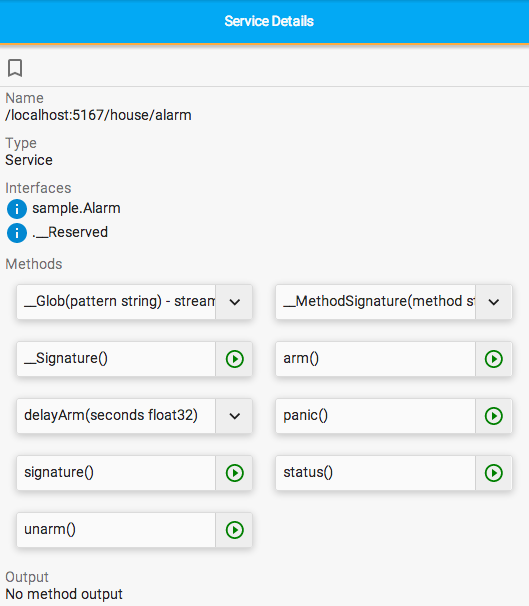
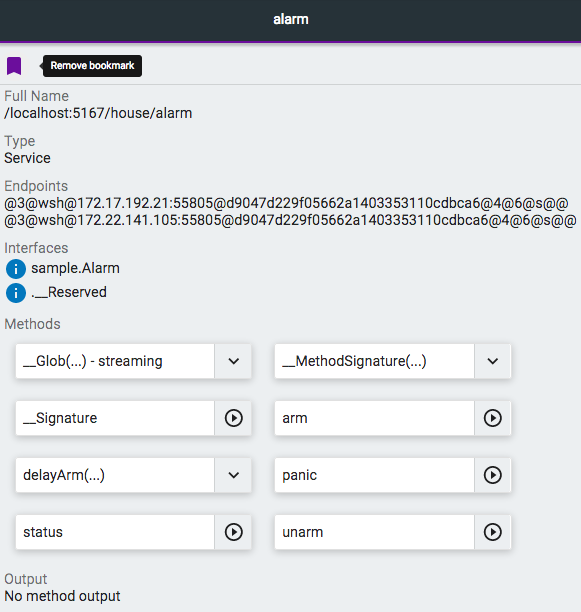
Updated help pages and screenshots.

diff --git a/src/components/help/content/methods.md b/src/components/help/content/methods.md
@@ -14,7 +14,8 @@ The right pane displays that the type is "Intermediary Name".
 It also shows the item's full name from the root of this namespace.
 
 Above the name, you can click on the bookmark icon to set a bookmark
-for this item (kitchen).
+for this item (kitchen), or can click to set this item to be
+the new root for browsing.
 
 Services
 --------
@@ -24,17 +25,26 @@ Here is the right pane for the alarm service:
 
 ![Details for the Alarm service](helpimg/alarm.png)
 
-As before, you can set a bookmark, and can see the full name and the type.
-In addition, you can see what interfaces are supported by this service.
+As before, you can set a bookmark. But in the figure above,
+the alarm service already has already been bookmarked
+(the bookmark icon is solid purple).
+Click it again to remove the bookmark.
 
-Most importantly the methods for the service are displayed.
+Below the full name and the type, you can see what Vanadium
+endpoints point to this service,
+and what interfaces are supported by this service.
+
+Most importantly, the methods for the service are displayed.
+Hover over a method name to see more information about the method.
+If a method takes arguments, then the name of the method
+is followed by "(...)".
 
 Invoking Methods on Services
 ----------------------------
 
 We can invoke methods on services to examine or change their state.
-For example, if you want to run the "status()" method, click on the button
-for the method (the green circle with a right arrow).
+For example, if you want to run the "status" method, click on the button
+for the method (the circle containing a right arrow).
 The method output (at the bottom) will say:
 
 ![Output from the status service](helpimg/output1.png)
@@ -46,24 +56,32 @@ that the alarm is armed:
 
 ![Output after arming alarm](helpimg/output2.png)
 
-Some method calls take arguments. For example, the "delayArm(seconds float32)"
-method takes a floating point number specifying the number of seconds
+Invoking Methods with Arguments
+-------------------------------
+
+Some method calls take arguments. For example, "delayArm(...)".
+Clicking on the action button (down arrow) for this method
+allows you to see more information about the arguments.
+
+![delayArm arguments](helpimg/delayarm.png)
+
+The delayArm method takes a floating point number specifying the number of seconds
 to delay before arming the alarm.
 
-To specify the values of any arguments, click on the button (down arrow)
-for the method, fill in values for the arguments, then click the RUN button.
+In this case, Viz is recommends a value of 1 (the item beginning with a star).
+You can click the action button (circle containing a right arrow)
+for this recommendation to run it.
+
+Alternatively, you can specify a different value by typing it into the line
+that contains "seconds (float32)", which is the type of the argument.
+Then click the RUN button to execute the method.
 
 The SAVE (star) button can be used to save a set of arguments for the function.
 In addition, sets of arguments you have used to invoke the method will be
-suggested in the future.
+recommended in the future.
 
-[TODO(wm): add images of this after it is reworked
- see  https://github.com/veyron/release-issues/issues/768]
-
-[TODO(wm): mention tooltips on methods]
-
-Mount Tables
-------------
+Mount Tables as Services
+------------------------
 
 A mount table is also a service. The methods for a mount table allow you
 to call methods on a mount table (e.g., to insert and delete items).

diff --git a/src/components/help/content/main.md b/src/components/help/content/main.md
@@ -2,20 +2,19 @@ Introduction
 ------------
 
 The Viz Vanadium Viewer is a tool to browse and interact with Vanadium services.
-See the Vanadium documentation for more information.
+See the [Vanadium documentation](http://staging.v.io) for more information.
 
 Mount Tables
 ------------
 
 One special kind of Vanadium service is a *mount table*, which contains
 distributed pointers to other services (including other mount tables).
-
 Each item in a mount table can be one of three things:
 * a distributed pointer to another mount table
 * a distributed pointer to a Vanadium service (other than a mount table)
 * a folder (intermediary name)
 
-Folders are used to group items together, like in a file system
+<br />Folders are used to group items together, like in a file system
 on a computer.
 The name used to identify a folder is called an "intermediary name" (like
 a directory name). Folders in a mount table can only contain other items
@@ -36,6 +35,10 @@ Names in Vanadium are a sequence of simple names separated by slashes (/)
 (see https://v.io/docs/core-concepts/naming.html for more information).
 
 Names in Vanadium can either be *rooted* or *relative*.
+
+Rooted Names
+------------
+
 A rooted name begins with a slash (/), while a relative name does not.
 The name following the initial slash of a rooted name is the *root*.
 A root can be specified three ways:

diff --git a/src/components/help/content/details.md b/src/components/help/content/details.md
@@ -21,7 +21,7 @@ Additional modes are planned for the future.
 
 In Browse mode, the header also shows the current Vanadium name being used
 as the root of the namespace.
-This can be a mount table, or an intermediary name in a mount table.
+This can be a mount table or an intermediary name in a mount table.
 You can type a Vanadium name into this field, or you can select a name
 using the Bookmarks or Recommendations tools. If this field is empty,
 it defaults to the Home mount table for the current environment.
@@ -57,4 +57,9 @@ you can set a bookmark on it by clicking the bookmark icon in the right pane.
 Recommendations uses machine intelligence to suggest interesting items.
 
 Lastly, you can use glob syntax to search for items.
-[TODO(wm): need details and examples]
+For example, you are in a namespace that represents a house.
+Under the house namespace are a number of rooms
+(bedroom, kitchen, living room, etc.) and under each room are things like
+lights, smoke detectors, thermostats, and speakers.
+To search for the lights in all rooms, you could search for "*/lights".
+Note that currently you can search only at a single level.
